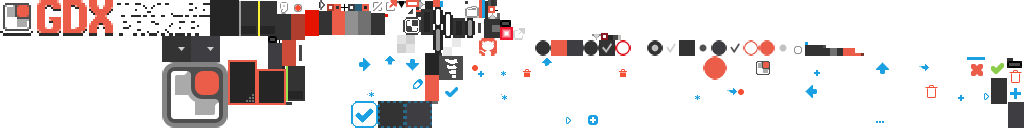
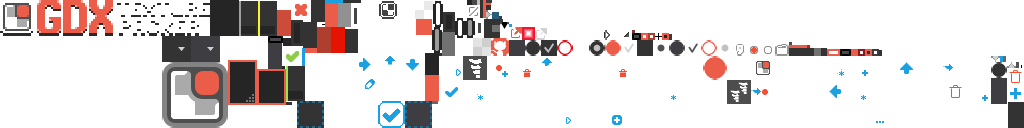
all packs to spine

diff --git a/core/src/com/crashinvaders/texturepackergui/controllers/GlobalActions.java b/core/src/com/crashinvaders/texturepackergui/controllers/GlobalActions.java
@@ -167,9 +167,19 @@ public class GlobalActions implements ActionContainer {
         if (pack == null) {
             return;
         }
-        ProjectModel project = getProject();
         interfaceService.showDialog(packDialogController.getClass());
-        packDialogController.launch2Spine(project, pack);
+        packDialogController.launch2Spine(getProject(), pack);
+    }
+
+    @LmlAction("frames2spineAll")
+    public void frames2spineAll() {
+        ProjectModel project = getProject();
+        Array<PackModel> packs = project.getPacks();
+        if (packs.size == 0) {
+            return;
+        }
+        interfaceService.showDialog(packDialogController.getClass());
+        packDialogController.launch2Spine(project, packs);
     }
 
     @LmlAction("newProject") public void newProject() {
